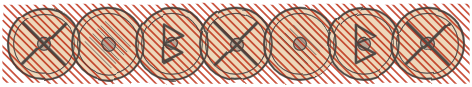
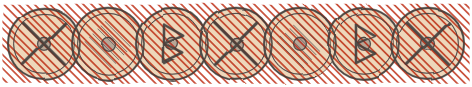
Redraw the blueprint drive, belt and bombs to match the base barge
The drive has both gears, the axle to the shaft and the cased shaft;
the gun port circle is gone until the port is ordered; the hull gains
the steel belt, hanging bombs and the brass rail.

diff --git a/web/js/viewer3d.js b/web/js/viewer3d.js
@@ -18,6 +18,10 @@ const VIEWS = {
     all: [ALL_TARGET, ALL_CAMERA, 17],
     left: [ALL_TARGET, new THREE.Vector3(40, 9, -1.5), 15],
     right: [ALL_TARGET, new THREE.Vector3(-40, 9, -1.5), 15],
+    // close looks from the left side, bow to the left as on the drawing; only by ?view= (comparing the drawing with the model)
+    drive: [new THREE.Vector3(2.5, 2.2, -7.6), new THREE.Vector3(40, 2.4, -7.6), 3.6],
+    bow: [new THREE.Vector3(2.5, 1.6, 5.2), new THREE.Vector3(40, 1.8, 5.2), 3.4],
+    waist: [new THREE.Vector3(2.5, 2.6, 0.6), new THREE.Vector3(40, 2.8, 0.6), 5.2],
     below: [new THREE.Vector3(0, 1, -1.5), new THREE.Vector3(6, -40, -1.4), 12],
 };
 

diff --git a/tools/web_art.py b/tools/web_art.py
@@ -72,12 +72,17 @@ def _index(items, item, what):
 
 
 def hull_split():
-    """(hull without shields and porthole, the side shields, the porthole) from crew_ui_art.hull()."""
+    """(hull before the shields, hull from its outline on, the side shields, the porthole) from crew_ui_art.hull(). The rope wale of the whole
+    length is taken out of the first list: trim() draws the gunwale as the model has it."""
     items = art.hull()
     first_shield = _index(items, art.circle(430, 503, 22.5, 1.5, art.INK, "#fff1dc"), "first shield")
     porthole = _index(items, art.circle(300, 476, 13, 1.6, art.INK, "#fff1dc"), "porthole")
     outline = _index(items, art.path(art.poly(art.hull_outline(), True), 2.6), "hull outline")
-    return items[:first_shield] + items[outline:], items[first_shield:porthole], items[porthole:outline]
+    wale = wale_items()
+    pre = [i for i in items[:first_shield] if i not in wale]
+    if len(pre) != first_shield - len(wale):
+        raise SystemExit("the rope wale of tools/crew_ui_art.py changed, look again")
+    return pre, items[outline:], items[first_shield:porthole], items[porthole:outline]
 
 
 STERN_FIN = "M672 616 L672 352 C 672 330 694 314 716 314 C 738 314 760 330 760 352 L760 626 L716 626 Z"
@@ -123,16 +128,183 @@ def build_of(items, area):
     return ink_pale(items, 0.45) + [art.hatch(area, 45, 3.6, 1.1, CHALK, 0.75)] + pencil_of(items)
 
 
+# ---------------- the base barge as the model has it (compared with build/solid_hull_hatches side by side, 06.11.2026) ----------------
+# Places come from the model: x = 246 + (8.3 - z) * 36 as tools/crew_ui_art.py; heights y = 598 - 41.5 * (y_model + 0.33), fitted to the drawn keel
+# (y -0.33 on the model) and forecastle rail (4.2). The drawing's 35 per unit does not hold for the hull: it is a sketch, taller in the waist.
+def mx(z):
+    return 246 + (8.3 - z) * 36
+
+
+def my(y):
+    return 598 - 41.5 * (y + 0.33)
+
+
+STEEL = "#9c968c"
+BRASS = "#d9a76a"
+
+
+def gear(cx, cy, r, n, spokes, hub, inner):
+    teeth = []
+    for i in range(n * 2):
+        a = i * math.pi / n
+        rr = r + (6 if i % 2 == 0 else 0)
+        teeth.append((cx + rr * math.cos(a), cy + rr * math.sin(a)))
+    out = [art.shape(art.poly(teeth, True), "#fff1dc"), art.path(art.poly(teeth, True), 1.6), art.circle(cx, cy, inner, 1.3),
+           art.circle(cx, cy, inner - 4, 0.8, art.INK, op=0.7), art.circle(cx, cy, hub, 1.4, art.INK, STEEL)]
+    for k in range(spokes):
+        a = math.radians(k * 360 / spokes + (0 if spokes == 4 else 22.5))      # the big gear's cross stands upright, as on the model
+        ca, sa = math.cos(a), math.sin(a)
+        w = 3.2 if spokes == 4 else 1.4
+        out.append(art.path(f"M{cx + hub * ca:.1f} {cy + hub * sa:.1f} L{cx + (inner - 4) * ca:.1f} {cy + (inner - 4) * sa:.1f}", w))
+    return out
+
+
+def drive():
+    """The screw's drive as on the model: the small gear high at the stern, the big gear before it, the gear's axle running down through a neck into the
+    shaft's casing, the casing along the hull, a banded hub, the blades and the pointed cap."""
+    out = []
+    out += gear(mx(-8.25), my(3.67), 41, 11, 8, 6, 33)              # small gear, behind
+    out += gear(mx(-6.25), my(2.5), 47, 12, 4, 9, 38)               # big gear, in front of it
+    gx, gy = mx(-6.25), my(2.5)
+    neck = f"M{gx - 7:.1f} {gy + 4:.1f} L{gx + 7:.1f} {gy + 4:.1f} L{gx + 13:.1f} {my(1.55):.1f} L{gx - 13:.1f} {my(1.55):.1f} Z"
+    out += [art.shape(neck, "#fff1dc"), art.path(neck, 1.6), art.path(f"M{gx - 10:.1f} {gy + 26:.1f} L{gx + 10:.1f} {gy + 26:.1f}", 1.2)]
+    # the casing: a long rounded tube from the waist past the stern
+    x0, x1, top, bottom = mx(-4.6), mx(-8.1), my(1.67), my(0.83)
+    mid = (top + bottom) / 2
+    casing = f"M{x1:.1f} {top:.1f} L{x0 + 14:.1f} {top:.1f} C {x0 - 2:.1f} {top:.1f} {x0 - 6:.1f} {mid:.1f} {x0 - 6:.1f} {mid:.1f} C {x0 - 6:.1f} {mid:.1f} {x0 - 2:.1f} {bottom:.1f} {x0 + 14:.1f} {bottom:.1f} L{x1:.1f} {bottom:.1f} Z"
+    out += [art.shape(casing, "#fff1dc"), art.path(casing, 1.8), art.hatch([(x0, mid + 4), (x1, mid + 4), (x1, bottom), (x0, bottom)], 70, 3.4, 0.7)]
+    for bx in (x0 + 18, x0 + 46, x1 - 6):
+        out.append(art.path(f"M{bx:.1f} {top - 1:.1f} L{bx:.1f} {bottom + 1:.1f} M{bx + 5:.1f} {top - 1:.1f} L{bx + 5:.1f} {bottom + 1:.1f}", 1.1))
+        for ry in (top + 5, bottom - 5):
+            out.append(art.dot(bx + 2.5, ry, 1.0))
+    # the hub: a barrel with bands
+    h0, h1 = mx(-8.1), mx(-9.2)
+    hub = f"M{h0:.1f} {top + 1:.1f} L{h1:.1f} {top + 3:.1f} L{h1:.1f} {bottom - 3:.1f} L{h0:.1f} {bottom - 1:.1f} Z"
+    out += [art.shape(hub, "#fff1dc"), art.path(hub, 1.6)]
+    for k in range(1, 4):
+        bx = h0 + (h1 - h0) * k / 4
+        out.append(art.path(f"M{bx:.1f} {top + 2:.1f} L{bx:.1f} {bottom - 2:.1f}", 1.0))
+    # blades: up, down, and two seen end on, then the pointed cap
+    bx = mx(-9.6)
+    for d in (-1, 1):
+        tip = my(2.33) if d < 0 else my(0.17) + 18
+        blade = f"M{bx - 4:.1f} {mid + d * 8:.1f} C {bx - 12:.1f} {mid + d * 30:.1f} {bx - 8:.1f} {tip:.1f} {bx + 2:.1f} {tip:.1f} C {bx + 10:.1f} {tip:.1f} {bx + 10:.1f} {mid + d * 30:.1f} {bx + 6:.1f} {mid + d * 8:.1f} Z"
+        out += [art.shape(blade, "#fff1dc"), art.path(blade, 1.5)]
+    for dy in (-6, 6):
+        out += [art.path(f"M{bx - 9:.1f} {mid + dy:.1f} L{bx + 11:.1f} {mid + dy * 0.6:.1f}", 3.2), art.path(f"M{bx - 9:.1f} {mid + dy:.1f} L{bx + 11:.1f} {mid + dy * 0.6:.1f}", 1.4, "#fff1dc")]
+    tip = mx(-11.1)
+    cap = f"M{bx + 8:.1f} {mid - 9:.1f} L{bx + 8:.1f} {mid + 9:.1f} L{tip:.1f} {mid:.1f} Z"
+    out += [art.shape(cap, "#fff1dc"), art.path(cap, 1.5), art.hatch([(bx + 8, mid), (tip, mid), (bx + 8, mid + 9)], 80, 3, 0.7)]
+    return out
+
+
+def belt():
+    """The steel belt along the bottom of the hull, from under the bow's curve to the stern: plates with seams and rivets; the rod along it."""
+    top = my(1.0)
+    xs = [x for x in range(int(mx(7.1)), int(mx(-8.2)) + 1, 4) if art.hull_bottom(x) > top + 2]
+    lower = [(x, art.hull_bottom(x) - 0.5) for x in xs]
+    band = [(xs[0], top)] + [(xs[-1], top)] + lower[::-1]
+    out = [art.shape(art.poly(band, True), STEEL, 0.5), art.path(f"M{xs[0]} {top:.1f} L{xs[-1]} {top:.1f}", 1.4)]
+    x = xs[0] + 18
+    while x < xs[-1] - 6:
+        out.append(art.path(f"M{x:.1f} {top:.1f} L{x:.1f} {art.hull_bottom(x) - 1:.1f}", 0.8))
+        for k in (-3, 3):
+            out.append(art.dot(x + k, top + 4, 0.9))
+        x += 0.85 * 36
+    # the rod in front of the belt
+    r0, r1, ry = mx(4.6), mx(-4.9), my(0.5)
+    rod = f"M{r0:.1f} {ry - 3:.1f} L{r1:.1f} {ry - 3:.1f} Q {r1 + 4:.1f} {ry:.1f} {r1:.1f} {ry + 3:.1f} L{r0:.1f} {ry + 3:.1f} Q {r0 - 4:.1f} {ry:.1f} {r0:.1f} {ry - 3:.1f} Z"
+    out += [art.shape(rod, "#fff1dc"), art.path(rod, 1.3)]
+    return out
+
+
+def bomb(x, y, r, rope_from):
+    """A round bomb hanging in a rope net."""
+    out = []
+    for fx, fy in rope_from:
+        out.append(art.path(f"M{fx:.1f} {fy:.1f} L{x + (fx - x) * 0.25:.1f} {y - r + 2:.1f}", 1.2))
+    pts = round_points(x, y, r - 1, 20)
+    out += [art.circle(x, y, r, 1.7, art.INK, "#e6dccb"), art.hatch(pts, 55, 6.5, 0.9, art.INK, 0.9), art.hatch(pts, 125, 6.5, 0.9, art.INK, 0.9),
+            art.hatch([(x - r, y + 3), (x + r, y + 3), (x + r * 0.6, y + r), (x - r * 0.6, y + r)], 20, 3, 0.6),
+            art.path(f"M{x - 5:.1f} {y - r - 3:.1f} L{x + 5:.1f} {y - r - 3:.1f} L{x + 4:.1f} {y - r + 1:.1f} L{x - 4:.1f} {y - r + 1:.1f} Z", 1.2, art.INK, STEEL)]
+    return out
+
+
+def bombs():
+    """The two bombs that hang over the side: one under the forecastle rail, one under the stern deck's front corner."""
+    return bomb(mx(4.67), my(2.75), 19, [(mx(4.9), my(3.3)), (mx(4.4), my(3.3))]) + bomb(mx(-2.75), my(1.75), 19, [(mx(-2.3), my(2.67)), (mx(-2.5), my(2.67))])
+
+
+FORECASTLE_END = 405        # where the forecastle's rail steps down to the waist, as hull_top() has it
+
+
+def wale_items():
+    """The strings crew_ui_art.hull() writes for the rope wale along the whole hull."""
+    a = [(x, art.hull_top(x) + 14) for x in range(250, 866, 12)]
+    b = [(x, art.hull_top(x) + 27) for x in range(250, 866, 12)]
+    items = [art.shape(art.poly(a + b[::-1], True), "#8f5a2c", 0.30), art.path(art.smooth(a), 1.5), art.path(art.smooth(b), 1.5)]
+    items += [art.path(f"M{x} {art.hull_top(x) + 14 + 13:.1f} L{x + 6} {art.hull_top(x) + 14:.1f}", 0.7, art.INK, op=0.8) for x in range(256, 860, 8)]
+    return items
+
+
+def trim():
+    """The gunwale as on the model: a brass cap rail with rivets along the whole top edge (down the forecastle's step and round the stern deck's),
+    the rope wale between two brass bands only on the forecastle."""
+    xs = list(range(250, 862, 4))
+    top = [(x, art.hull_top(x)) for x in xs]
+    low = [(x, art.hull_top(x) + 6) for x in xs]
+    out = [art.shape(art.poly(top + low[::-1], True), BRASS, 0.55), art.path(art.smooth(low[::2]), 1.0)]
+    for x in range(256, 858, 16):
+        out.append(art.dot(x, art.hull_top(x) + 3, 0.9))
+    fx = [x for x in range(250, FORECASTLE_END + 1, 6)]
+    a = [(x, art.hull_top(x) + 14) for x in fx]
+    b = [(x, art.hull_top(x) + 27) for x in fx]
+    c = [(x, art.hull_top(x) + 33) for x in fx]
+    out += [art.shape(art.poly(a + b[::-1], True), "#8f5a2c", 0.30), art.path(art.smooth(a), 1.5), art.path(art.smooth(b), 1.5),
+            art.shape(art.poly(b + c[::-1], True), BRASS, 0.55), art.path(art.smooth(c), 1.0)]
+    for x in range(256, FORECASTLE_END - 4, 8):
+        out.append(art.path(f"M{x} {art.hull_top(x) + 27:.1f} L{x + 6} {art.hull_top(x) + 14:.1f}", 0.7, art.INK, op=0.8))
+    # the groups of four rivets at the butt joints of the waist
+    for z in (0.9, -3.8):
+        for dx in (-2.5, 2.5):
+            for dy in (-2.5, 2.5):
+                out.append(art.dot(mx(z) + dx, my(1.25) + dy, 1.0))
+    return out
+
+
+def gear_start(items):
+    """Where the old stern gear, shaft and screw start in crew_ui_art.rear_parts(): they end where the stern boards begin."""
+    gx, gy, gr = 846, 424, 34
+    teeth = []
+    for i in range(28):
+        a = i * math.pi / 14
+        r = gr + (5 if i % 2 == 0 else 0)
+        teeth.append((gx + r * math.cos(a), gy + r * math.sin(a)))
+    return _index(items, art.shape(art.poly(teeth, True), "#fff1dc"), "stern gear")
+
+
+PORT_AT = (mx(5.75), my(1.2))       # the port's centre on the model (data/hull_parts.json, port), on the steel belt's upper edge
+
+
+def at_port(items):
+    """Parts drawn round crew_ui_art.CANNON moved to the port's place on the model."""
+    dx, dy = PORT_AT[0] - art.CANNON[0], PORT_AT[1] - art.CANNON[1]
+    return [f'<g transform="translate({dx:.1f} {dy:.1f})">{"".join(items)}</g>']
+
+
 def main():
     OUT.mkdir(parents=True, exist_ok=True)
-    hull_items, shields, porthole = hull_split()
+    hull_pre, hull_post, shields, porthole = hull_split()
     rear_items, stern = rear_split()
+    # the hull with the steel belt, the gunwale and the hanging bombs under its outline; the stern with the drive as the model has it
+    hull_items = hull_pre + belt() + trim() + bombs() + hull_post
+    rear_items = rear_items[:gear_start(rear_items)] + drive()
     blueprint_base(hull_items, rear_items).save(OUT / "blueprint_base.png", optimize=True)
     places = {}
-    # the port: its ink is the panel's own mount_cannons (data/ui), pencil and build drawn here
-    layer("port_pencil", port_pencil(), places)
-    layer("port_build", port_build(), places)
-    parts = {"port": {"pencil": "port_pencil", "build": "port_build", "ink": "mount_cannons"}}
+    # the port: no mark at all while it is not built (the base model has none); being built and built at its place on the model
+    layer("port_build", at_port(port_build()), places)
+    layer("port_ink", at_port(art.mount_cannons()), places)
+    parts = {"port": {"pencil": None, "build": "port_build", "ink": "port_ink"}}
     # the details taken off the base barge: ink, pencil, build, ready for when their buildings are connected
     x, y = 300, 476
     removed = {
@@ -148,8 +320,8 @@ def main():
         layer(f"{name}_build", build_of(items, area), places)
         parts[name] = {"pencil": f"{name}_pencil", "build": f"{name}_build", "ink": f"{name}_ink"}
     (OUT / "layers.json").write_text(json.dumps({
-        "_about": "Made by tools/web_art.py. Places in units of the drawing (data/crew_ui_art.json, size). The ink of the port is data/ui/mount_cannons.png, "
-                  "placed by data/crew_ui_art.json; every other layer is in web/art. blueprint_base.png: the panel's drawing without the details below.",
+        "_about": "Made by tools/web_art.py. Places in units of the drawing (data/crew_ui_art.json, size). blueprint_base.png: the panel's drawing without the "
+                  "details below, with the drive, steel belt, gunwale and bombs as the base model has them. The port is drawn at its place on the model.",
         "places": places, "parts": parts}, indent=1), encoding="utf-8")
     for f in sorted(OUT.glob("*.png")):
         print(f.name, f.stat().st_size)
